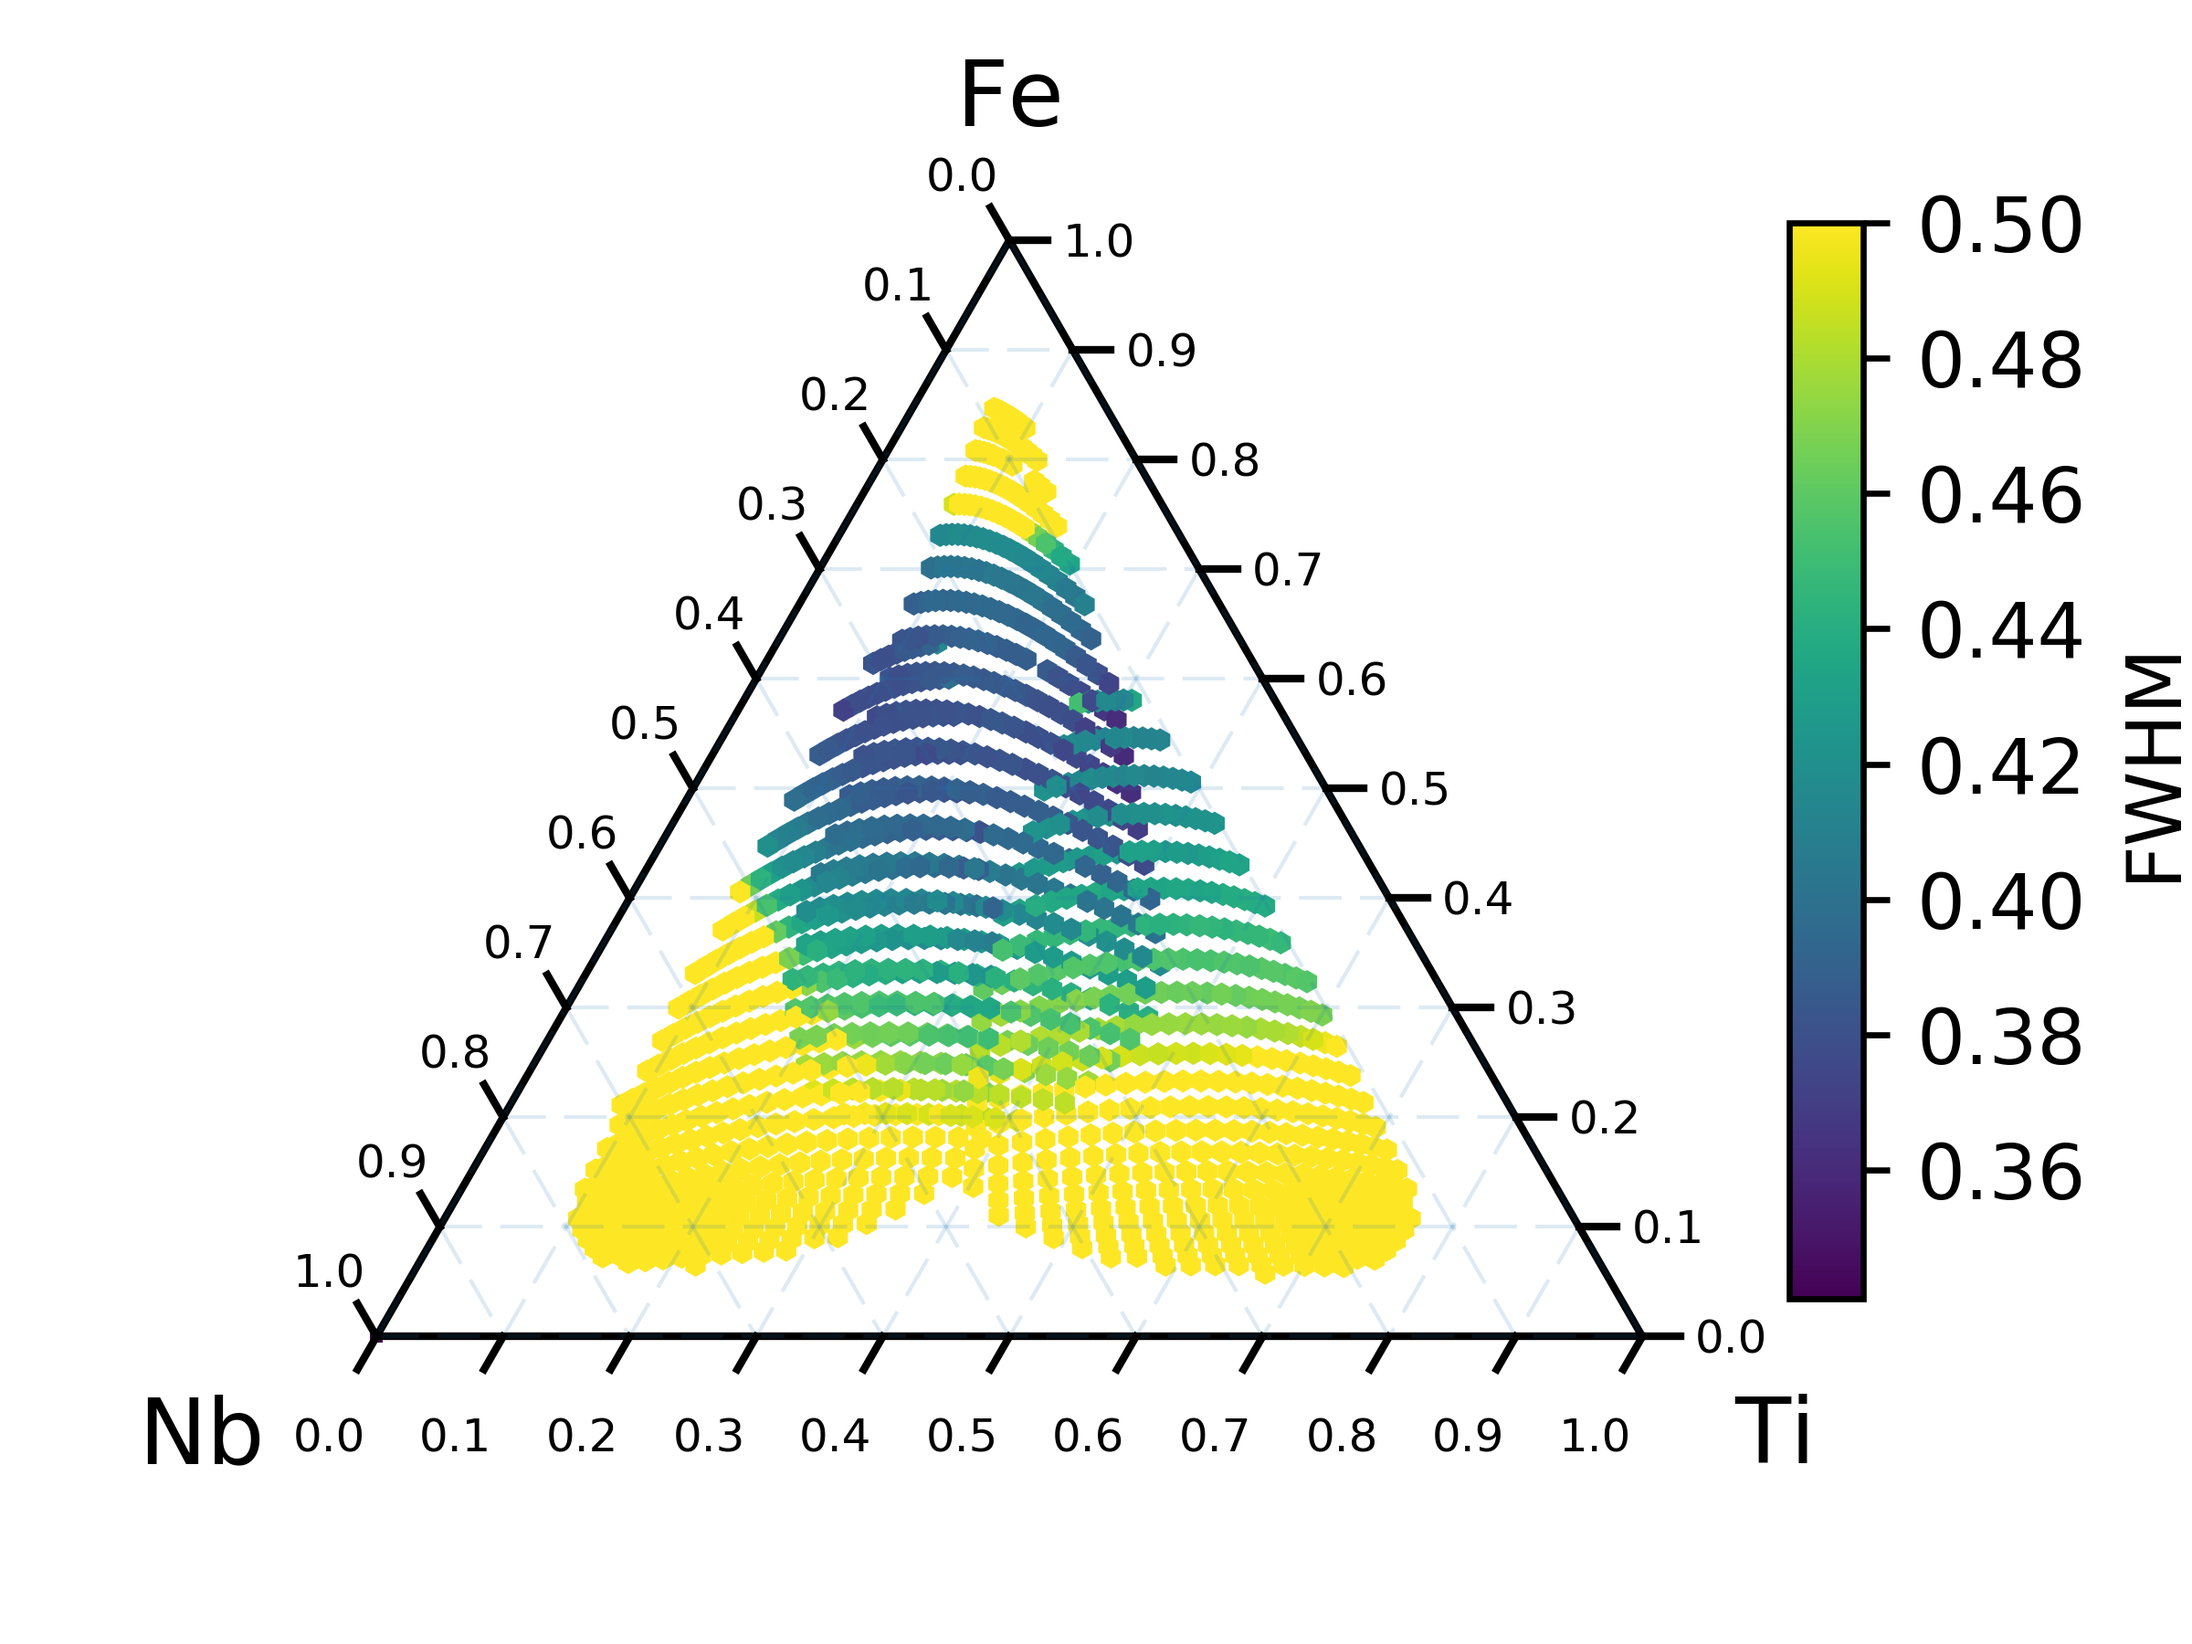
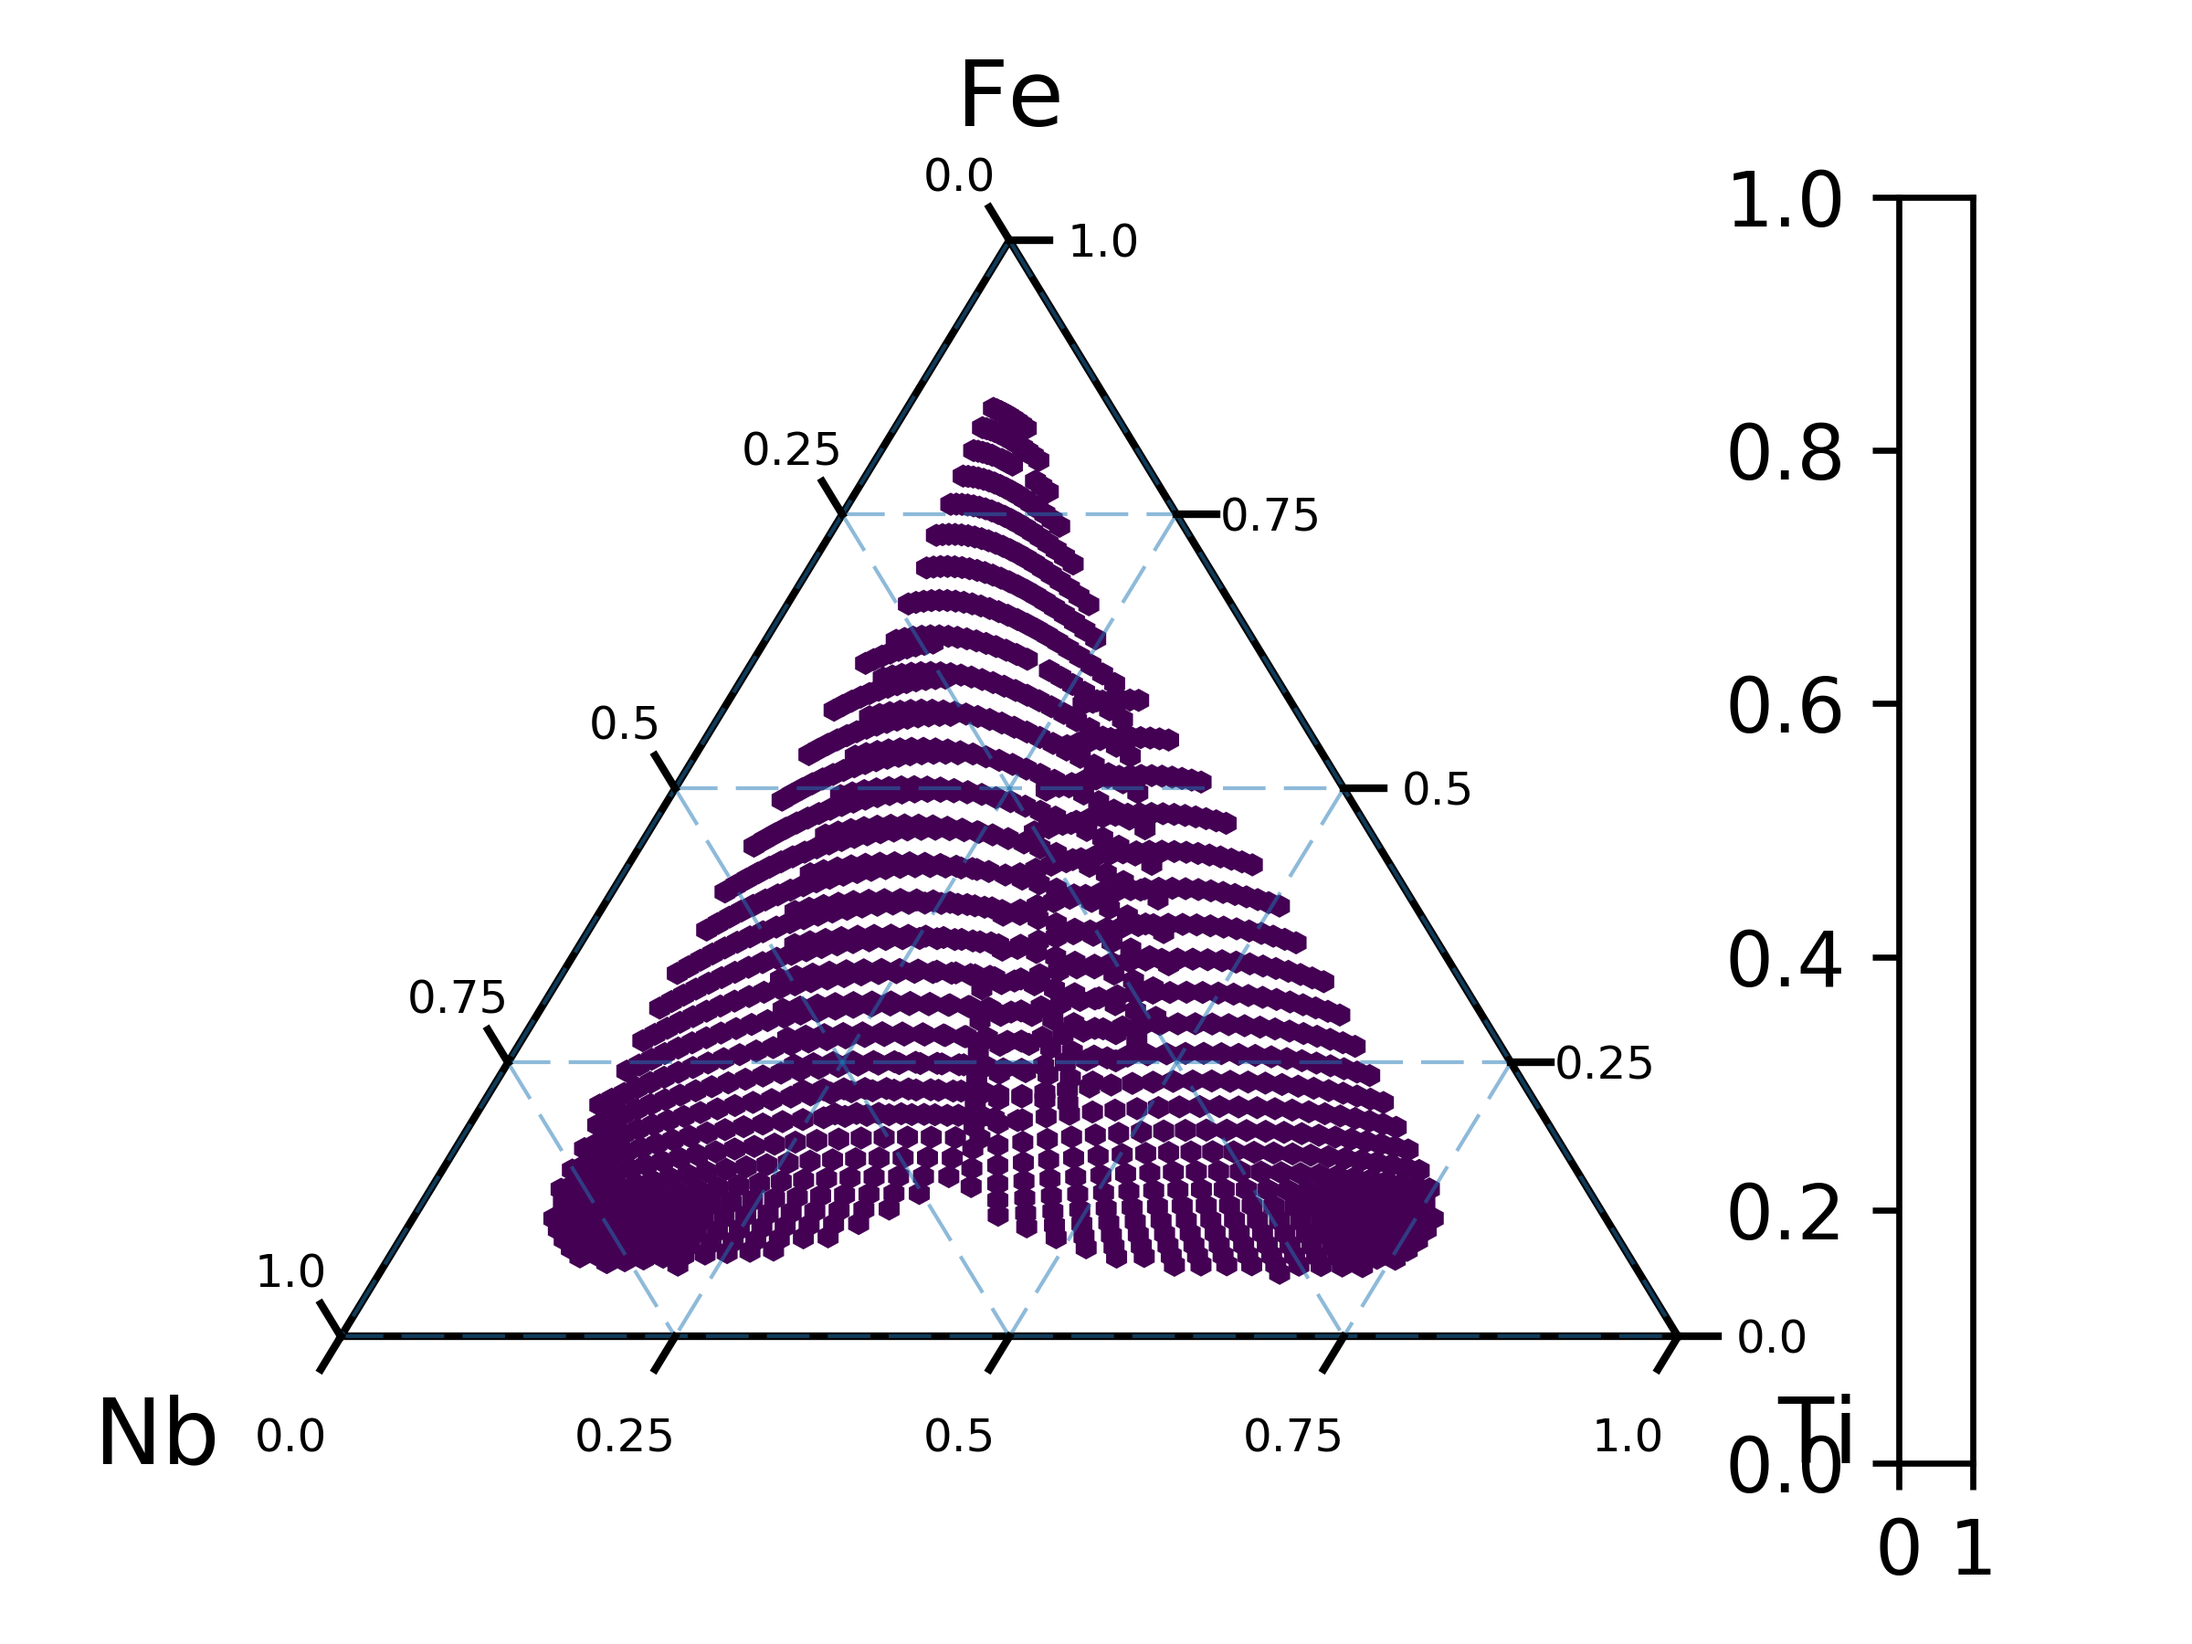
Updated increments

diff --git a/scripts/figure_plotters/FigureS4_FeTiNb.py b/scripts/figure_plotters/FigureS4_FeTiNb.py
@@ -55,7 +55,7 @@ ternary_data = np.transpose(ternary_data)
 
 plotTernary.plt_ternary_save(ternary_data, tertitle='',  labelNames=('Fe','Ti','Nb'), scale=100,
                        sv=True, svpth=save_path, svflnm='FigureS4a',
-                       cbl='FWHM', vmin = 0.341, vmax = 0.5, cmap='viridis_r', cb=True, style='h')
+                       cbl='FWHM', vmin = 0.341, vmax = 0.5, cmap='viridis_r', cb=False, style='h')
 
 # ternary_data = np.concatenate(([Fe],[Ti],[Nb],[peak_position]), axis = 0)
 # ternary_data = np.transpose(ternary_data)
